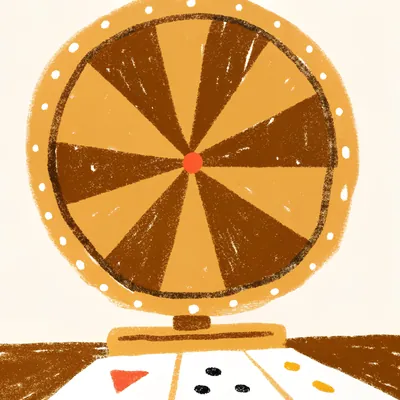
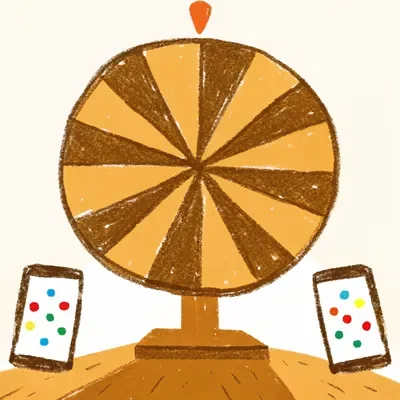
feat(hiroba-roulette): イラストとサムネイルをルームに合わせる
イラストのさいころとカードをスマホ2台に替えて作りなおし、
サムネイルをルームで端末から選んでいる3段目の画面で撮りなおす。

diff --git a/docs/development/illustrations.md b/docs/development/illustrations.md
@@ -34,7 +34,7 @@
 ## ツール一覧にカードがないツール
 
 スタッフ向けのツール（ツール一覧に載せない）にも、オーナーの依頼で絵を作ることがある。色は種類の色のかわりに `generate.py` の `STAFF_COLORS` に書く（その画面の地の色に合わせる）。
-- `hiroba-roulette`（なにするルーレット）: `#F2B35C`・`#8A4A10`。2026-11-15。早見表のリンクの絵・ツールの1段目（このコマのプログラム）の右上・説明スライドの表紙に出す。4回作り、ルーレットが切れずにまん中に入った絵にした
+- `hiroba-roulette`（なにするルーレット）: `#F2B35C`・`#8A4A10`。2026-11-15。早見表のリンクの絵・ツールの1段目（このコマのプログラム）の右上・説明スライドの表紙に出す。4回作り、ルーレットが切れずにまん中に入った絵にした。2026-11-16 にルーム（子どもが自分の端末で選ぶ）に合わせ、さいころとカードをスマホ2台に替えて作りなおした（5回作り、ルーレットが切れずスマホも見える1回目にした。スマホの下の角は少し切れている）
 
 ## 種類のタブの絵
 
